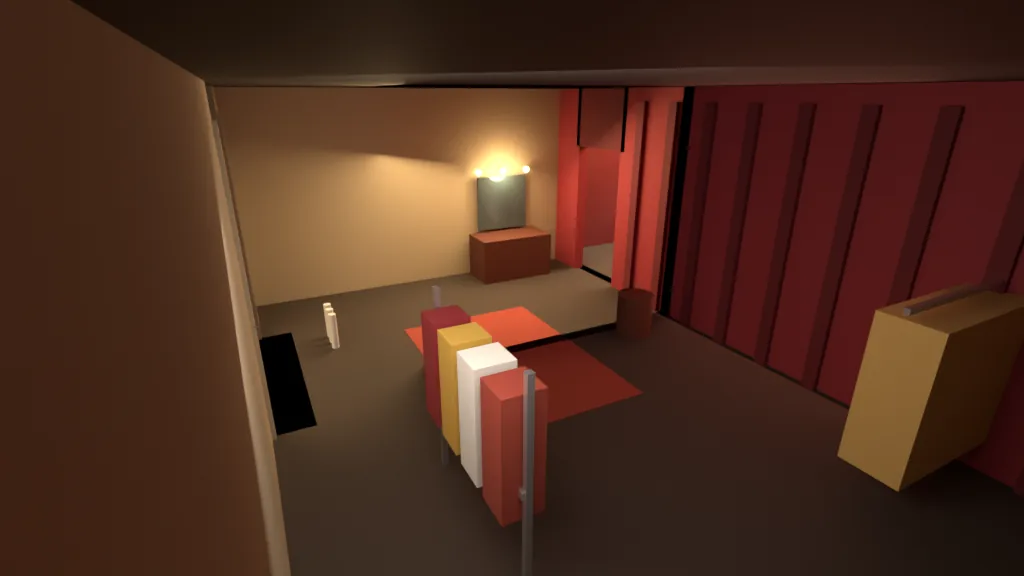
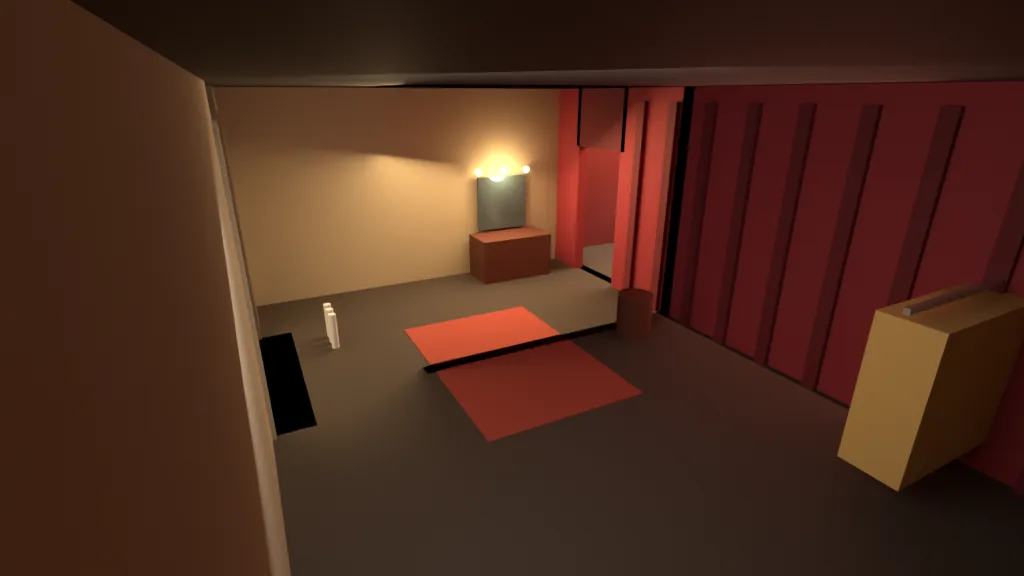
Session 44: scratch build 2 for the F49 probe run (batch 2 game files)
Claude-Session: https://claude.ai/code/session_015w2gCFwv7ehP5cafgPgcH1

Changed region(s): [[0.4062, 0.5, 0.5312, 0.9062]]

diff --git a/web/step0/night1.html b/web/step0/night1.html
@@ -11,6 +11,8 @@
   #frame { position: relative; }
   #gl { display: block; }
   .hud { position: absolute; left: 10px; top: 8px; font-weight: 600; letter-spacing: .04em; text-shadow: 0 1px 2px #000; pointer-events: none; }
+  /* F49: the shot name is hidden while a card is up (desk shop: "Mirror" lay over the card's title) */
+  #shotName.under { visibility: hidden; }
   #hint { position: fixed; left: 0; right: 0; bottom: 10px; text-align: center; opacity: .75; font-size: 12px; pointer-events: none; }
   /* F26: beside the Mirror pads (they take the bottom right), the hint keeps clear of them */
   #hint.padded { right: 100px; padding-left: 12px; text-align: left; }
@@ -108,7 +110,7 @@
   .card .parchment details.more { display: flex; flex-direction: column; gap: 6px; }
   .card .parchment .row { display: flex; gap: 10px; flex-wrap: wrap; }
   .card .parchment button.back { background: #3d332d; color: #f1e5c8; }
-  #cracks { position: absolute; left: 0; top: 0; pointer-events: none; }
+  #cracks { position: absolute; left: 0; top: 0; pointer-events: none; visibility: hidden; }
   #fog { position: fixed; inset: 0; background: radial-gradient(circle at 50% 60%, #c9d5d7, #9db5bb 45%, #44666e); opacity: 0; pointer-events: none; transition: opacity 1.4s linear; z-index: 15; display: flex; align-items: center; justify-content: center; color: #11272b; font: 600 26px Georgia, serif; }
   #gnaw { position: fixed; inset: 0; pointer-events: none; opacity: 0; z-index: 14; background: radial-gradient(ellipse at 50% 50%, transparent 42%, rgba(4, 10, 14, 0.88)); transition: opacity 0.2s linear; }
   #gnaw.warn { opacity: 0.55; }
@@ -130,7 +132,7 @@
   #actSkipBtn { position: fixed; right: 16px; bottom: 24px; min-width: 88px; min-height: 48px; border-radius: 24px; border: 1px solid #cfaa4e; background: #1e1714cc; color: #e9d9b0; font: 600 15px system-ui, sans-serif; z-index: 7; }
   /* session 36 (owner 24 Nov: the fall prototype works): the live fall act's goal line, result caption, the whiteface's early call and the gold Fall button */
   /* session 38: the goal line (cold players) under the shot name; the gold button's result line above the prompt */
-  #goal { position: absolute; left: 0; right: 0; top: 30px; text-align: center; color: #f0d27a; font: 600 15px/1.3 Georgia, serif; text-shadow: 0 1px 3px #000; pointer-events: none; padding: 0 12px; }
+  #goal { position: absolute; left: 0; right: 0; top: calc(var(--gy, 30) * 1px); text-align: center; color: #f0d27a; font: 600 15px/1.3 Georgia, serif; text-shadow: 0 1px 3px #000; pointer-events: none; padding: 0 12px; }
   #verbCap { position: absolute; left: 0; right: 0; bottom: 12%; text-align: center; color: #fff3cf; font: 600 15px/1.3 system-ui, sans-serif; text-shadow: 0 1px 3px #000, 0 0 8px #000; pointer-events: none; padding: 0 12px; }
   #fallGoal { position: absolute; left: 0; right: 0; top: 8px; text-align: center; color: #f0d27a; font: 600 16px/1.3 Georgia, serif; text-shadow: 0 1px 3px #000; pointer-events: none; padding: 0 12px; }
   #fallCap { position: absolute; left: 6%; right: 6%; top: 24%; text-align: center; color: #fff3dc; font: italic 400 18px/1.4 Georgia, serif; text-shadow: 0 1px 3px #000, 0 0 12px #000; pointer-events: none; }
@@ -845,6 +847,8 @@ const N1 = Object.freeze({
   ],
   // session 38 (cold players, design/STRANGER-night1-s37-coldplay.md items 1, 2, 4, 6): switch, one goal line at the top of the picture naming the next thing to do
   goalLines: true,
+  // F49: gap between the goal line and the board note it would meet, or the picture's top edge when it goes above the picture, px
+  goalGap: 6,
   // the goal line per place (lead's wording; the owner edits). paint, painting, bravado: dressing room; corridor, wings, entrance: walk out by shot; back: walk back; room: after it
   goalText: {
     painting: 'He paints the smile on.', bravado: 'He is the clown now. The act board is next.', board: 'Choose tonight\'s act on the board.',
@@ -2660,6 +2664,7 @@ function musicHold(on) {
 // ----- flow -----
 function show(id, html) {
   hideCard();
+  el.shotName.classList.add('under');
   const d = document.createElement('div');
   d.className = 'card' + (id === 'dazai' || id === 'small' || id === 'ending' || ((id === 'crowd' || id === 'actLine') && N1.actShow) ? ' see' : '') + (id === 'shop' && N1.performerLearns ? ' see shopAt' : '');
   d.id = 'card_' + id;
@@ -2670,7 +2675,7 @@ function show(id, html) {
   return d;
 }
 function setScene(sc) { NS.scene = sc; musicFor(sc); }
-function hideCard() { if (NS.card) { NS.card.remove(); NS.card = null; } }
+function hideCard() { if (NS.card) { NS.card.remove(); NS.card = null; } el.shotName.classList.remove('under'); }
 function setPrompt(t) { if (el.prompt.textContent !== t) el.prompt.textContent = t; }
 // session 38 (cold players): the goal line, by N1.goalText key ('' = none), written only when the key changes
 function setGoal(key) {
@@ -2678,6 +2683,25 @@ function setGoal(key) {
   NS.goalKey = key;
   const t = N1.goalLines && key ? N1.goalText[key] || '' : '';
   el.goal.textContent = t; el.goal.classList.toggle('hidden', !t);
+  goalClear();
+}
+// F49 (owner 25 Nov 13:59, nights 2-3 board on a phone): the goal line never lies over the board's notes. When the board is up and the line meets a
+// note, it goes above the picture if there is room there (phone portrait), else just under the lowest note it met. Called on show and resize, not per frame
+function goalClear() {
+  const g = el.goal;
+  if (g.style.getPropertyValue('--gy')) g.style.removeProperty('--gy');
+  if (g.classList.contains('hidden') || el.boardActs.classList.contains('hidden')) return;
+  const gr = g.getBoundingClientRect(), fr = g.offsetParent ? g.offsetParent.getBoundingClientRect() : null;
+  if (!fr) return;
+  let lo = -1;
+  for (let i = 0; i < el.boardActBtns.length; i++) {
+    const b = el.boardActBtns[i];
+    if (!b.getClientRects().length) continue;
+    const r = b.getBoundingClientRect();
+    if (r.top < gr.bottom && r.bottom > gr.top && r.left < gr.right && r.right > gr.left) lo = Math.max(lo, r.bottom);
+  }
+  if (lo < 0) return;
+  g.style.setProperty('--gy', Math.round(fr.top >= gr.height + N1.goalGap * 2 ? -(gr.height + N1.goalGap) : lo - fr.top + N1.goalGap));
 }
 // the walk's goal: by shot on the way out, one line on the way back
 function walkGoal() { setGoal(S.back ? (N1.goalText['back' + S.shot] ? 'back' + S.shot : 'back') : S.shot); }
@@ -2790,6 +2814,7 @@ function placeBoardActs() {
   // night 1: the baked cards (a.x); from night 2 tonight's notes in slots over a flat panel that hides the baked cards
   const slots = N1.night > 1, n = NS.acts.length, slot = N1.boardSpan / Math.max(1, n), w = slot - N1.boardGap;
   NS.acts.forEach((a, i) => box(el.boardActBtns[i], slots ? -N1.boardSpan / 2 + slot * (i + 0.5) : a.x, N1.boardCardZ, slots ? w : N1.noteW, slots ? N1.boardNoteH : N1.noteH));
+  goalClear();
 }
 // a note opens as a parchment (22 Nov b item 1): title, the routine in one line, whose it is; Perform it or Back (the loop waits behind it)
 function pickAct(id) {
@@ -3855,7 +3880,11 @@ function buildReflection() {
   const c = chars.clown;
   refl.root = skelClone(c.root);
   refl.root.traverse((o) => o.layers.set(1));
-  c.root.traverse((o) => o.layers.enable(1));
+  // F49: he is on layer 2 too: the reflection pass draws only his depth there (colour off), so the image behind him stays behind and his blended
+  // parts are not blended a second time (was layer 1, drawn twice; the press shot's camera sees layers 0 and 1, so it draws him once)
+  c.root.traverse((o) => o.layers.enable(2));
+  NS.clownMats = []; c.root.traverse((o) => { if (!o.isMesh) return; for (const m of Array.isArray(o.material) ? o.material : [o.material]) if (NS.clownMats.indexOf(m) < 0) NS.clownMats.push(m); });
+  NS.clownCW = NS.clownMats.map((m) => m.colorWrite);
   // the clown's skeletons (drawn in both passes): renderReflection skips their second update
   NS.reflSkels = []; c.root.traverse((o) => { if (o.isSkinnedMesh && !NS.reflSkels.includes(o.skeleton)) NS.reflSkels.push(o.skeleton); });
   NS.reflSkelUp = NS.reflSkels.map((k) => k.update);
@@ -3949,18 +3978,34 @@ function sizeCracks() {
   }
   NS.mpoly = null;
   if (S.mirror === 'entry' && NS.press) {
+    // F49: pressStart aims the camera with lookAt just before this call; its matrices update only at the next render, so update them here
+    pressCam.updateMatrixWorld();
     // the glass in the press shot, projected through its camera (canvas px); cracks are clipped to this quad
     NS.mpoly = pressSet.glassCorners.map((q) => { const v = pressSet.v.copy(q).project(pressCam); return [(v.x + 1) / 2 * w, (1 - v.y) / 2 * h]; });
     x0 = Math.min(...NS.mpoly.map((q) => q[0])); x1 = Math.max(...NS.mpoly.map((q) => q[0])); y0 = Math.min(...NS.mpoly.map((q) => q[1])); y1 = Math.max(...NS.mpoly.map((q) => q[1]));
   }
   NS.mrect[0] = x0; NS.mrect[1] = h - y1; NS.mrect[2] = x1 - x0; NS.mrect[3] = y1 - y0;
-  const dpr = renderer.getPixelRatio();
-  el.cracks.width = Math.round(w * dpr); el.cracks.height = Math.round(h * dpr);
+  const dpr = renderer.getPixelRatio(), cw = Math.round(w * dpr), ch = Math.round(h * dpr);
+  if (el.cracks.width !== cw || el.cracks.height !== ch) { el.cracks.width = cw; el.cracks.height = ch; glassTex.dispose(); }
   el.cracks.style.width = w + 'px'; el.cracks.style.height = h + 'px';
+  renderer.getDrawingBufferSize(glassOvMat.uniforms.uRes.value);
+  placeGlassOv();
   drawCracks();
   if (S.mirror === 'shop') shopFit();
 }
 window.addEventListener('resize', () => { if (S.mirror) sizeCracks(); });
+// F49: the room's glass quad, glassD in front of the room camera minus 3 cm (the vanity: its glass centre's view depth), big enough to cover the view
+function placeGlassOv() {
+  roomCam.updateMatrixWorld();
+  let d = N1.mirrorGlassD;
+  if (S.mirror === 'paint') { const g = N1.vanityGlass; d = -tmp.set(g[0], g[2], -g[1]).applyMatrix4(roomCam.matrixWorldInverse).z; }
+  d -= 0.03;
+  const hh = 2.4 * d * Math.tan(deg(roomCam.fov) / 2);
+  glassOv.position.set(0, 0, -d).applyMatrix4(roomCam.matrixWorld);
+  roomCam.getWorldQuaternion(glassOv.quaternion);
+  glassOv.scale.set(hh * roomCam.aspect, hh, 1);
+  glassOv.updateMatrix();
+}
 // session 32: cause: three.js counts each render() as a new frame, so the reflection pass updated the clown's skeleton again and re-uploaded his bone
 // texture after the room pass had drawn with it (run 122 ladder: 1440p 10.7 -> 7.9 ms, 1080p 8.0 -> 6.7 without it). His bones do not move between the
 // two passes, so his skeletons skip that second update (NS.reflSkels, built once); the reflection's own skeleton still updates once, in this pass.
@@ -3970,8 +4015,14 @@ function renderReflection() {
   renderer.setScissorTest(true);
   renderer.setScissor(r[0], r[1], r[2], r[3]);
   renderer.clearDepth();
-  roomCam.layers.set(1);
   for (let i = 0; i < k.length; i++) k[i].update = skelNoop;
+  // his depth only (layer 2, colour writes off), then the image and the glass (layer 1) behind it
+  const cm = NS.clownMats;
+  roomCam.layers.set(2);
+  for (let i = 0; i < cm.length; i++) cm[i].colorWrite = false;
+  renderer.render(roomScene, roomCam);
+  for (let i = 0; i < cm.length; i++) cm[i].colorWrite = NS.clownCW[i];
+  roomCam.layers.set(1);
   renderer.render(roomScene, roomCam);
   for (let i = 0; i < k.length; i++) k[i].update = NS.reflSkelUp[i];
   roomCam.layers.set(0);
@@ -3997,6 +4048,7 @@ function addCrack() {
   tone(2400, 1800, 0.06, 'triangle', 0.05);
 }
 function drawCracks() {
+  glassTex.needsUpdate = true;
   const g = el.cracks.getContext('2d'), dpr = renderer.getPixelRatio();
   g.setTransform(dpr, 0, 0, dpr, 0, 0);
   g.clearRect(0, 0, S.w, S.h);
@@ -4073,6 +4125,21 @@ function updateMirror(dt) {
 // ----- the press at the big mirror (owner 22 Nov 20:27, "it is a mirror"): a cut to a close shot at the glass -----
 // Seen from the room camera behind him, his own body hides a true mirror image, so the press is filmed from his right at the glass.
 // The image is his true mirror (same side place, as far behind the glass as he is in front); his palm and its palm meet on the glass.
+// F49 (session 44, owner 25 Nov 13:46: the glass tint lay over the clown): the glass tint and cracks are drawn on #cracks (hidden, a drawing surface
+// only) and shown through this quad at the glass, depth-tested, so he stays in front of the glass. Screen-space lookup: the quad only has to cover the
+// glass; what shows is clipped to the glass by the canvas itself (and by the reflection pass's scissor in the room)
+const glassTex = new THREE.CanvasTexture(document.getElementById('cracks'));
+glassTex.generateMipmaps = false; glassTex.minFilter = THREE.LinearFilter;
+const glassOvMat = new THREE.ShaderMaterial({
+  uniforms: { uMap: { value: glassTex }, uRes: { value: new THREE.Vector2(1, 1) } },
+  vertexShader: 'void main() { gl_Position = projectionMatrix * modelViewMatrix * vec4(position, 1.0); }',
+  fragmentShader: 'uniform sampler2D uMap; uniform vec2 uRes; void main() { gl_FragColor = texture2D(uMap, gl_FragCoord.xy / uRes); }',
+  transparent: true, depthWrite: false
+});
+// the room's quad: drawn in the reflection pass only (layer 1), just in front of the glass, facing the room camera; placed in sizeCracks
+const glassOv = new THREE.Mesh(new THREE.PlaneGeometry(1, 1), glassOvMat);
+glassOv.layers.set(1); glassOv.renderOrder = 10; glassOv.matrixAutoUpdate = false;
+roomScene.add(glassOv);
 const pressScene = new THREE.Scene(), pressCam = new THREE.PerspectiveCamera(40, CONFIG.aspect, 0.05, 30);
 pressCam.layers.enable(1);
 const pressSet = { glassCorners: [new THREE.Vector3(), new THREE.Vector3(), new THREE.Vector3(), new THREE.Vector3()], touch: new THREE.Vector3(), off: new THREE.Vector3(), v: new THREE.Vector3() };
@@ -4092,6 +4159,10 @@ function buildPress() {
   const glass = new THREE.Mesh(new THREE.PlaneGeometry(1.45, 2.75), new THREE.MeshBasicMaterial({ color: rawColor('#6E8D94'), transparent: true, opacity: 0.16, depthWrite: false }));
   glass.position.set(0, 1.6, D - 0.001); glass.rotation.y = Math.PI; glass.renderOrder = 2; glass.matrixAutoUpdate = false; glass.updateMatrix();
   pressScene.add(glass);
+  // F49: the cracks over this glass, depth-tested (his palm and arm in front stay in front)
+  const ov = new THREE.Mesh(new THREE.PlaneGeometry(1.45, 2.75), glassOvMat);
+  ov.position.set(0, 1.6, D - 0.002); ov.rotation.y = Math.PI; ov.renderOrder = 3; ov.matrixAutoUpdate = false; ov.updateMatrix();
+  pressScene.add(ov);
   pressScene.background = rawColor('#0d0a0b');
   [[-0.725, 2.975], [0.725, 2.975], [0.725, 0.225], [-0.725, 0.225]].forEach((q, i) => pressSet.glassCorners[i].set(q[0], q[1], D));
 }

diff --git a/web/step0/walk/build_walk.py b/web/step0/walk/build_walk.py
@@ -194,12 +194,8 @@ def build_wings():
     for i in range(10):
         box(f'wing_fold{i}', (-0.2 + i * 0.68, 13.88, 1.6), (0.16, 0.1, 3.2), curtainDk)
     box('wing_ceiling', (2.0, 11.0, 3.45), (9.4, 6.0, 0.1), mat('wall', P['wall']))
-    # costume rack near the camera (the clown walks behind it), with hanging costumes
-    box('rack_a', (3.3, 9.5, 0.9), (1.6, 0.08, 0.06), mat('silver', P['silver'], 0.3, 0.8))
-    for i, c in enumerate(['curtain', 'gold', 'paint', 'rug']):
-        box(f'rack_a_coat{i}', (2.7 + i * 0.4, 9.5, 1.15), (0.3, 0.32, 0.95), mat(c, P[c], 0.9))
-    box('rack_a_leg_l', (2.5, 9.5, 0.9), (0.05, 0.05, 1.8), mat('silver', P['silver'], 0.3, 0.8))
-    box('rack_a_leg_r', (4.1, 9.5, 0.9), (0.05, 0.05, 1.8), mat('silver', P['silver'], 0.3, 0.8))
+    # session 44 (owner 25 Nov 13:49, F49): the costume rack near the camera (rack_a, four coats) is gone: from the wings camera its coats hid
+    # him on the floor behind it, where he takes the pie (tools/check_walk_visible.py); the second rack below stays
     # second rack by the north curtain (hidden from the entrance camera)
     box('rack_b', (4.6, 13.2, 1.0), (0.5, 1.4, 1.4), mat('ochre', P['ochre'], 0.9))
     box('rack_b_rail', (4.6, 13.2, 1.8), (0.05, 1.6, 0.05), mat('silver', P['silver'], 0.3, 0.8))
